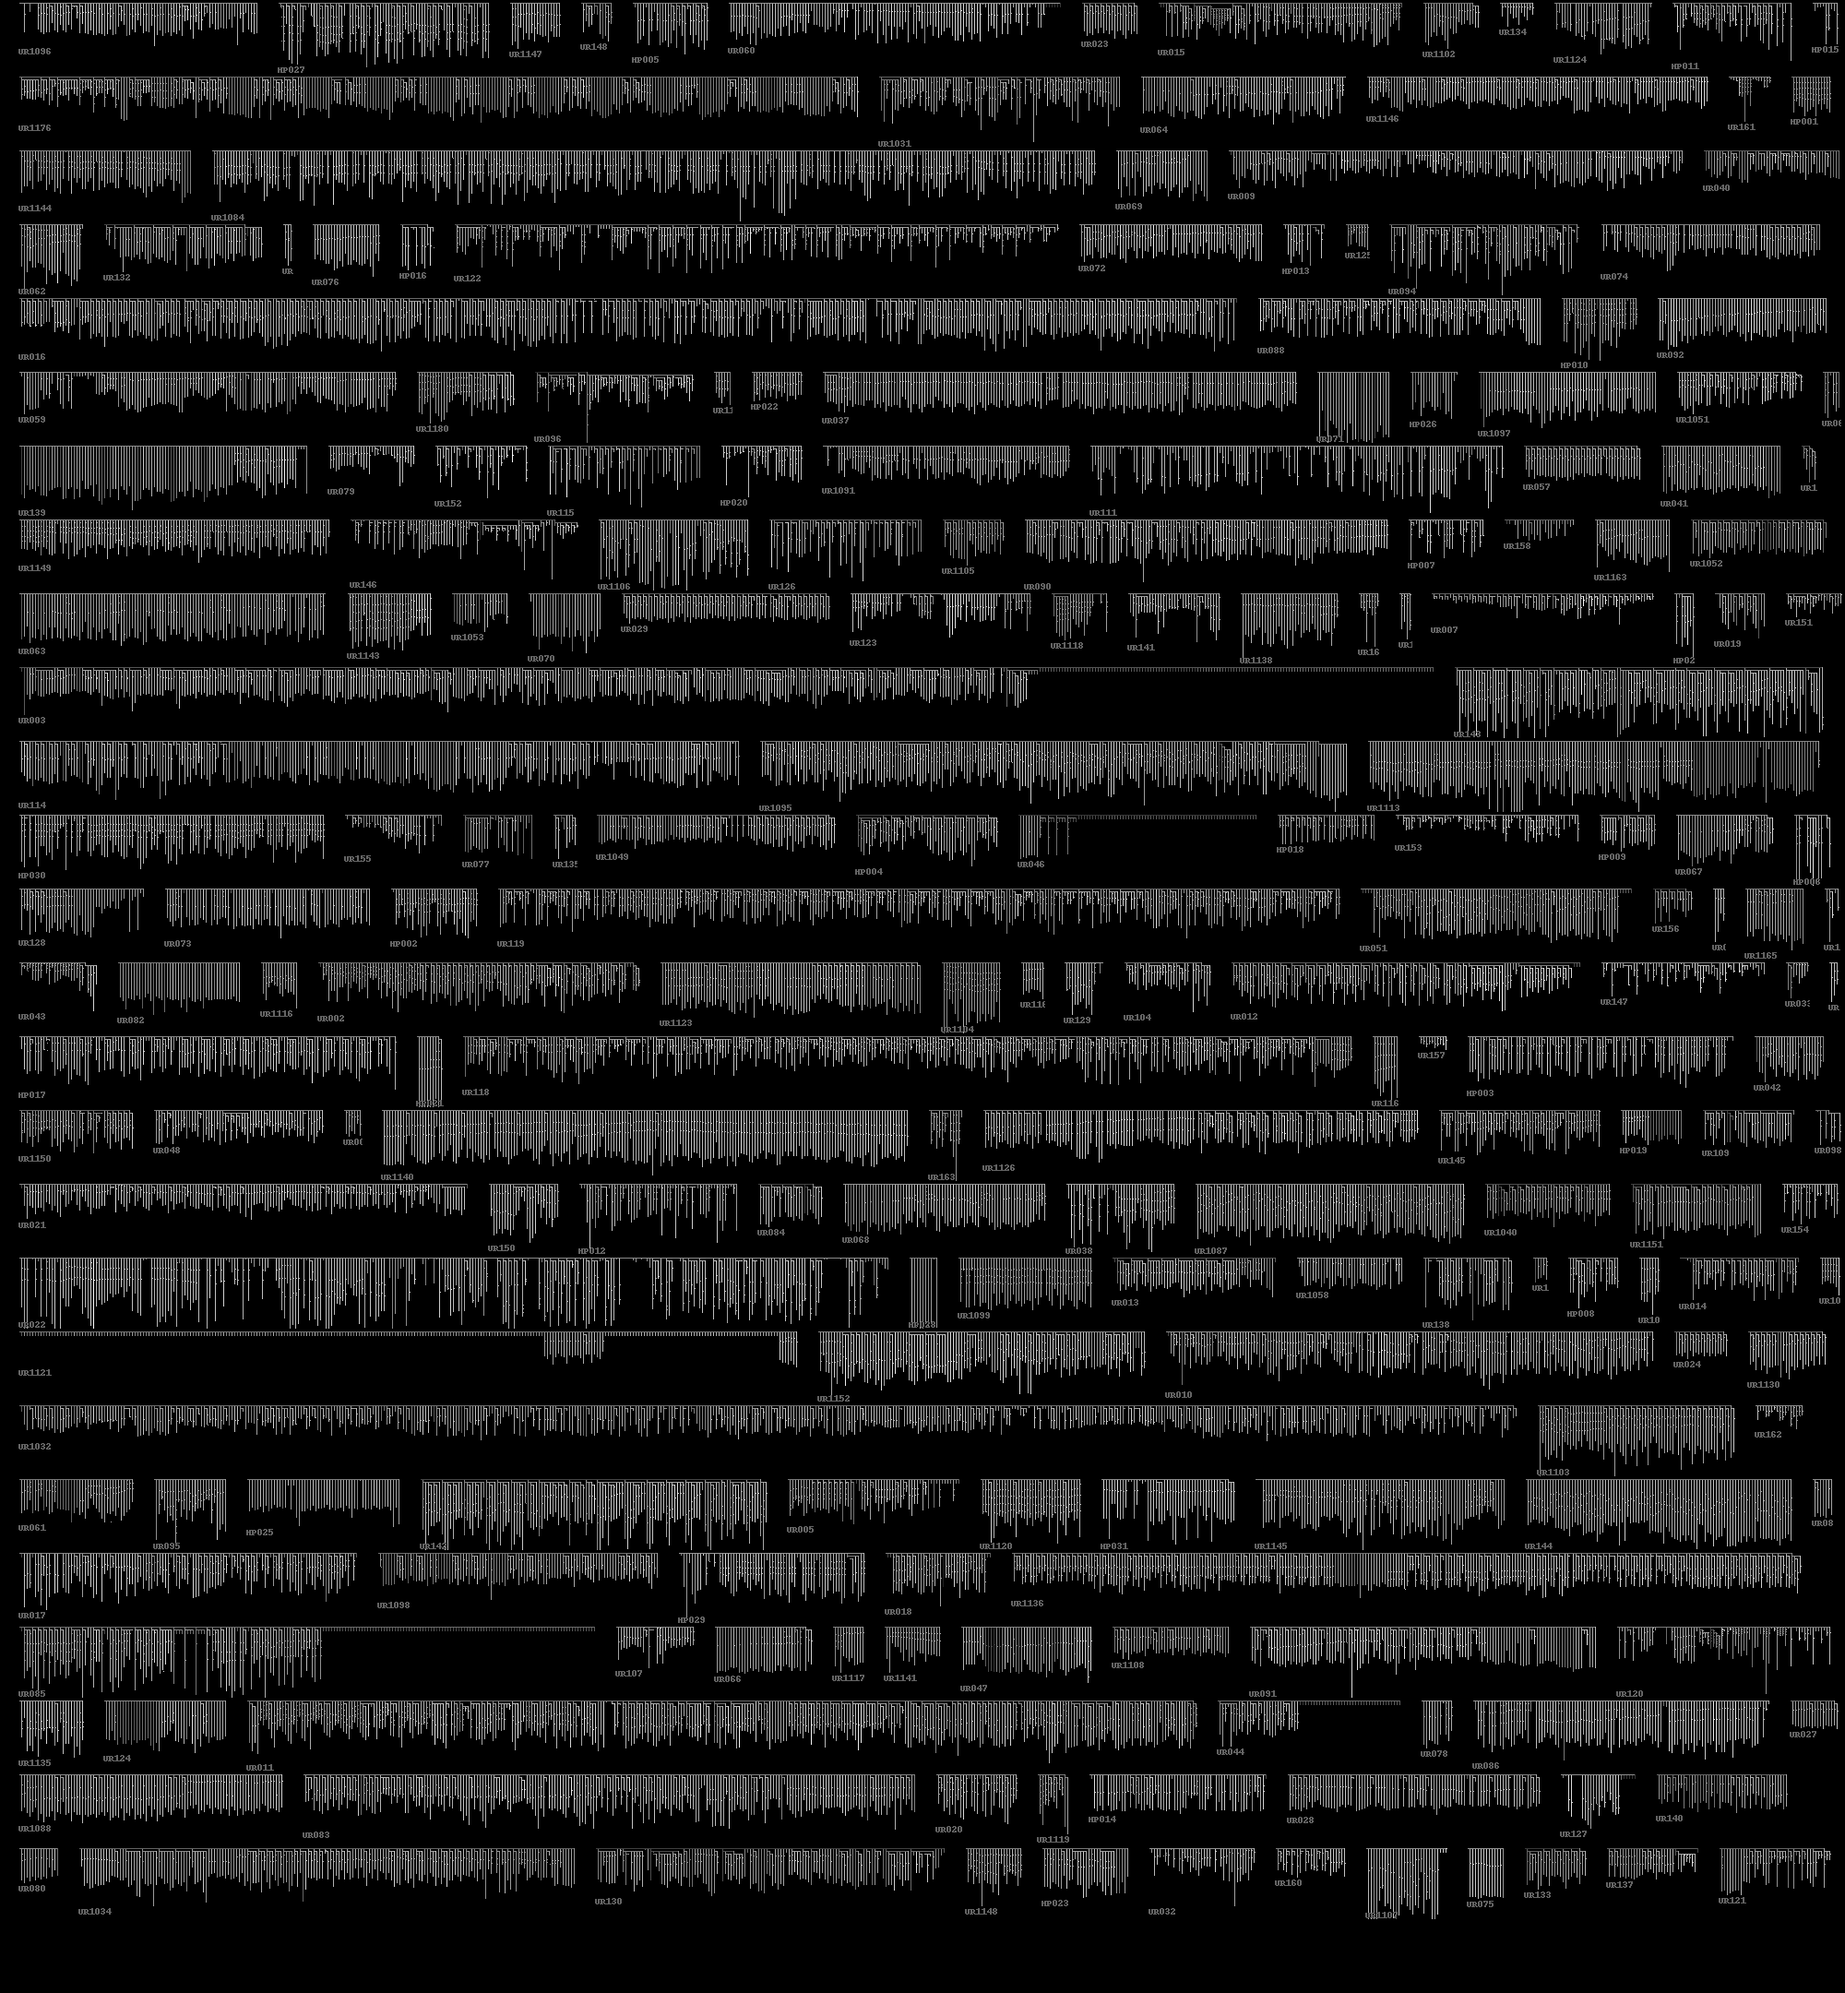
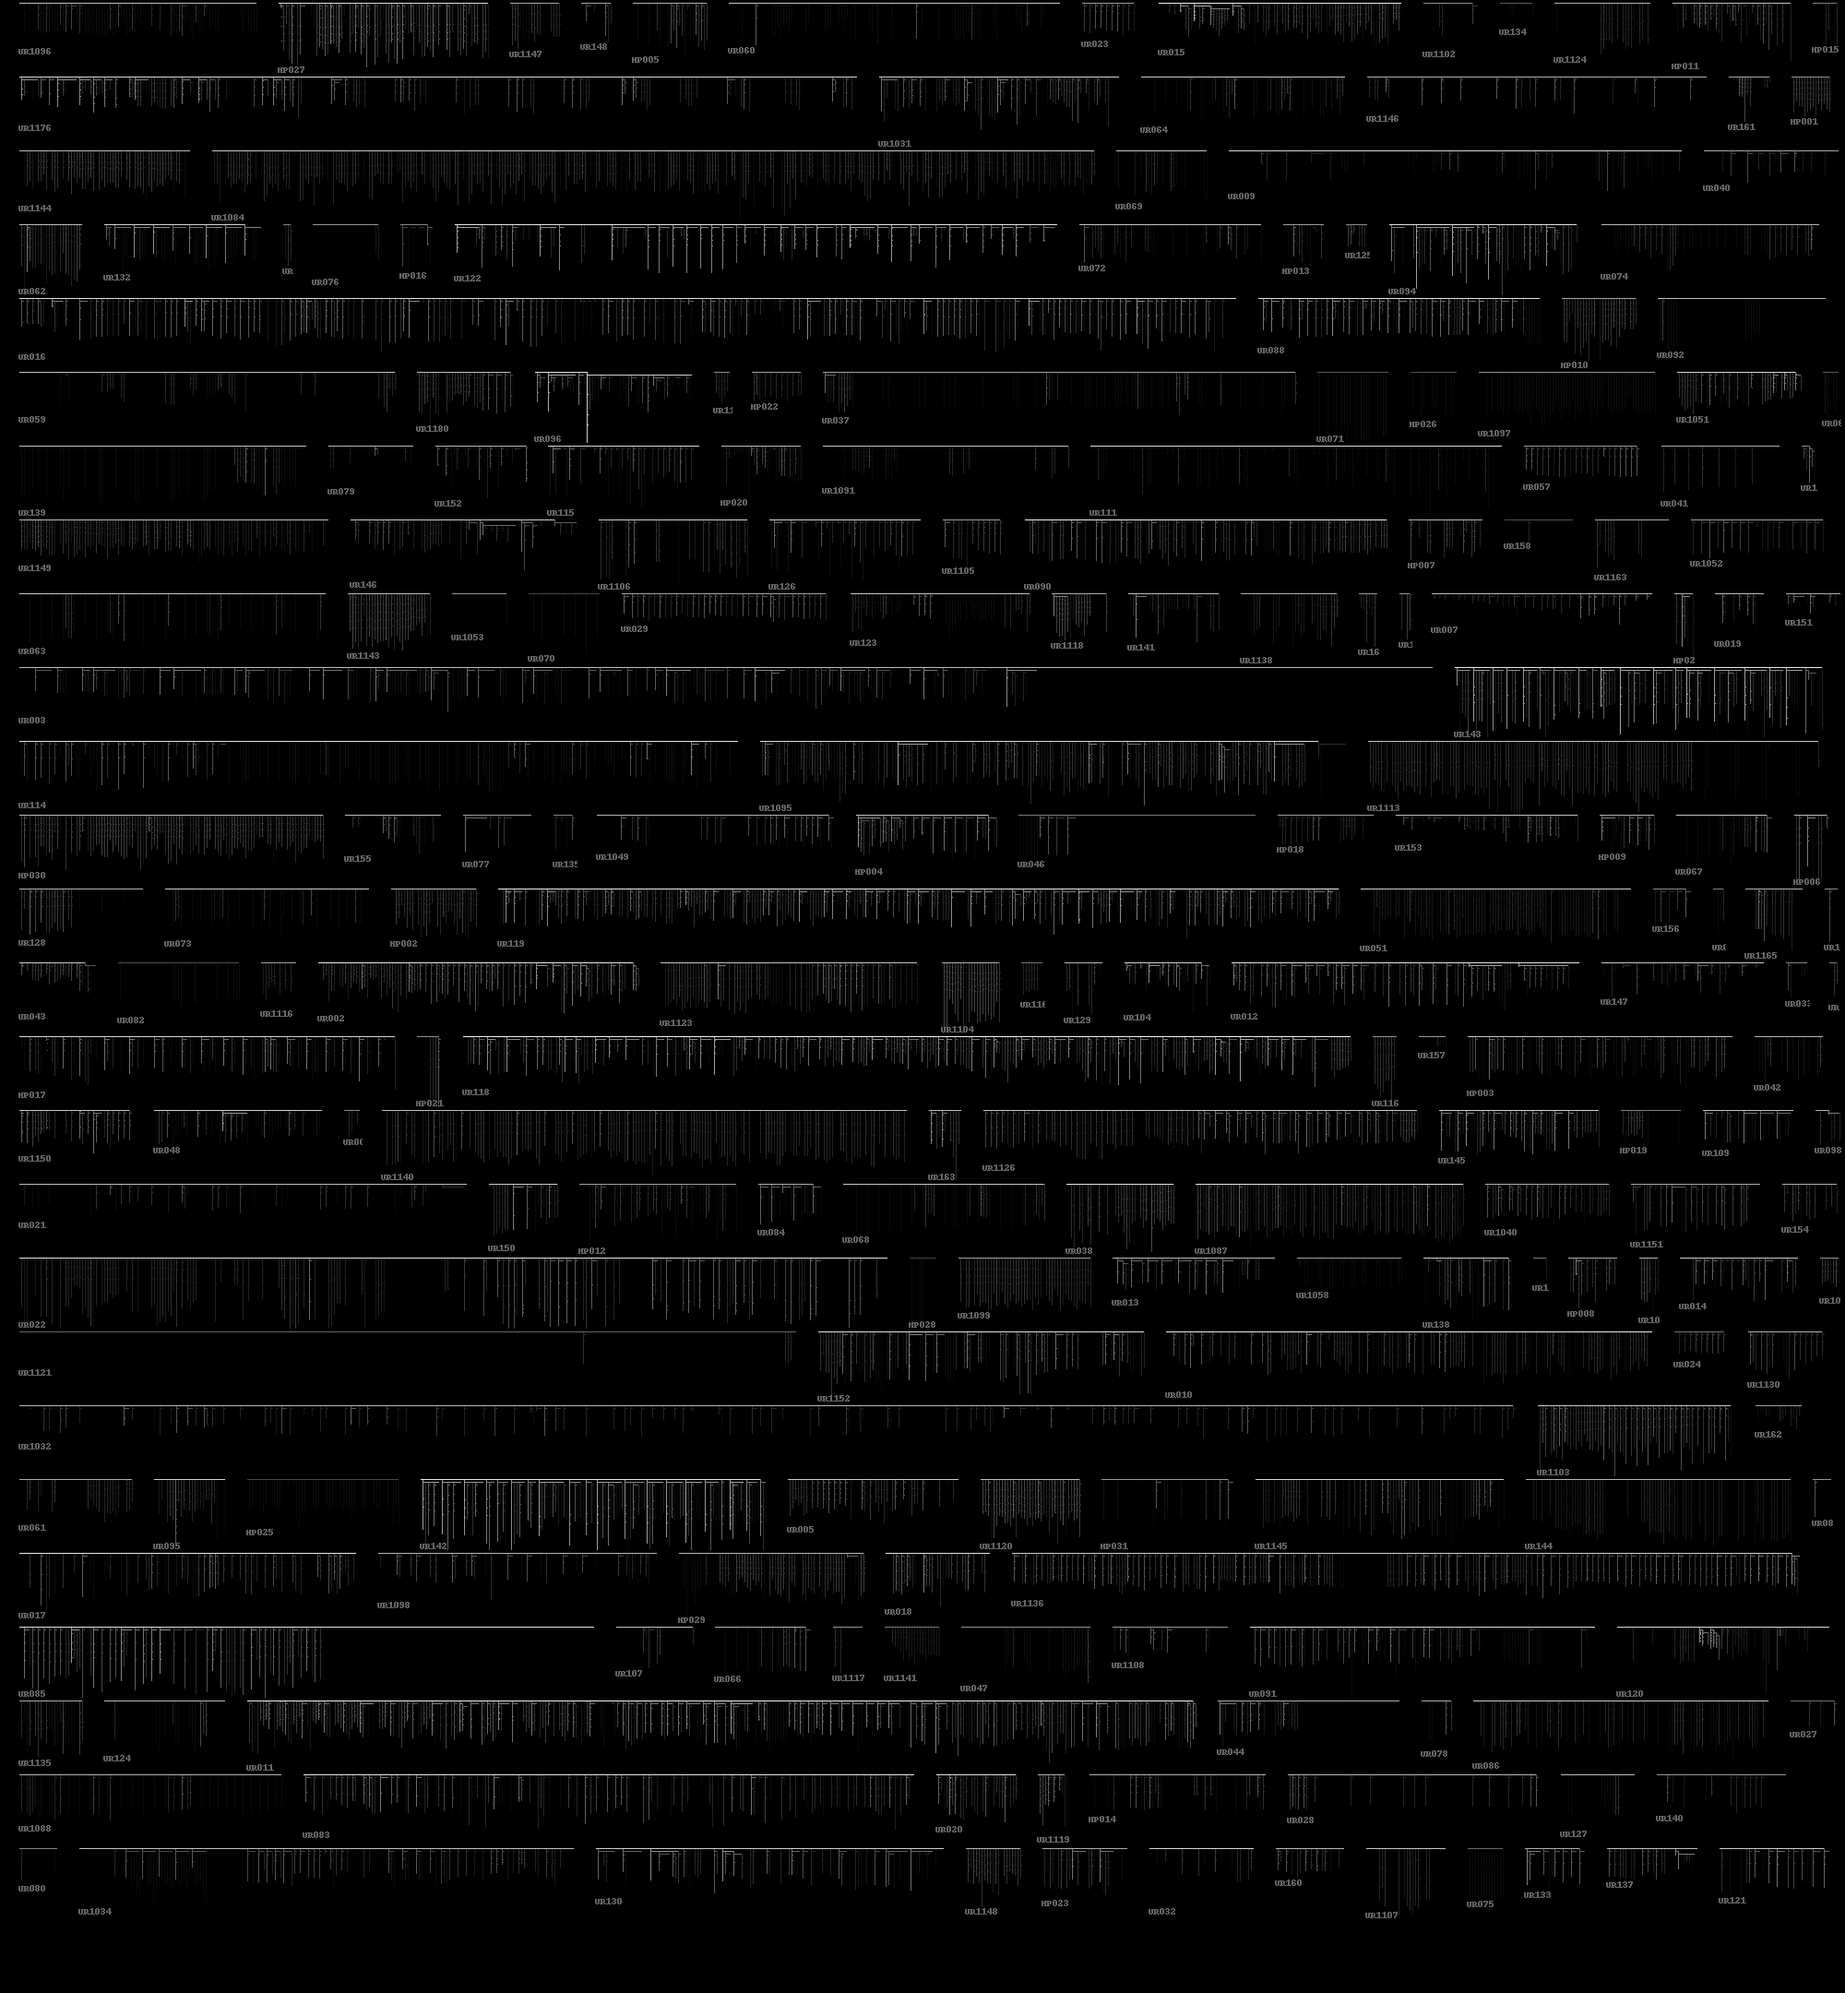
entropy fixes

diff --git a/quipupixel.py b/quipupixel.py
@@ -45,7 +45,7 @@ def rgb(triplet):
     return _HEXDEC[triplet[0:2]], _HEXDEC[triplet[2:4]], _HEXDEC[triplet[4:6]]
 
 
-
+## pendant tree class
 class pendant:
     def __init__(self,pid,ply,attach,knots,length,colours,value):
         self.pid = pid
@@ -61,7 +61,7 @@ class pendant:
             # convert to triples
             self.colours.append(rgb(c[2:-1]))
         self.value = value
-        self.entropy = 0
+        self.entropy = -1
 
     def add(self,child):
         self.children.append(child)
@@ -75,7 +75,25 @@ class pendant:
             return False
 
     def calc_entropy(self):
-        self.entropy = entropy.calc(self.pprint(0))
+        collect={
+            "ply":[],
+            "attach":[],
+            "length":[],
+            "colours":[],
+            "knot_value":[],
+            "knot_type":[],
+            "knot_position":[],
+            "knot_spin":[]
+        }
+
+        self.as_raw(collect)
+
+        self.entropy=0
+        for i in collect.values():
+            self.entropy += entropy.calc(i)
+
+        print(self.entropy)
+
         global _min_entropy
         global _max_entropy
 
@@ -87,14 +105,28 @@ class pendant:
 
     def safe_plot(self,pixels,x,y,c):
         if x>0 and x<pixels.shape[1] and y>0 and y<pixels.shape[0]:
-            if self.entropy!=0:
+            if self.entropy!=-1:
                 v=(self.entropy-_min_entropy)/(_max_entropy-_min_entropy)
                 v*=255
                 pixels[y,x]=(v,v,v)
             else:
                 pixels[y,x]=c
 
-    def pprint(self,depth):
+    # slice the data for entropy calc
+    def as_raw(self, collect):
+        collect["ply"]+=[self.ply]
+        collect["attach"]+=[self.attach]
+        collect["length"]+=[self.length]
+        collect["colours"]+=self.colours
+        collect["knot_value"]+=map(lambda k: k.value, self.knots)
+        collect["knot_type"]+=map(lambda k: k.type, self.knots)
+        collect["knot_position"]+=map(lambda k: k.position, self.knots)
+        collect["knot_spin"]+=map(lambda k: k.spin, self.knots)
+        for c in self.children:
+            c.as_raw(collect)
+
+    # produce a json string of this pendant
+    def as_json(self,depth):
         out=""
         header=""
         pheader=""
@@ -124,7 +156,7 @@ class pendant:
         else:
             out+=header+"\"children\": [\n"
             for i,p in enumerate(self.children):
-                out+=p.pprint(depth+2)
+                out+=p.as_json(depth+2)
                 if i==len(self.children)-1: out+="\n"
                 else: out+=",\n"
 
@@ -139,7 +171,7 @@ class pendant:
         return count
 
     def longest_pendant(self,depth):
-        length = self.length+depth*3
+        length = self.length+depth*3 # account for heirarchical position
         for p in self.children:
             l = p.longest_pendant(depth+1)
             if l>length: length=l
@@ -171,14 +203,16 @@ class pendant:
             tx,x=p.render(pixels,tx,x,y+3)
         return (sx,x)
 
+########################################################
 
+# just store the width and height for box fitting
 def prerender(primary,filename,store):
     h = int(primary.longest_pendant(0))+10
     w = primary.num_pendants()*3
     h = min(h,max_height)
     store[filename] = [0,0,w,h]
 
-
+# render a quipu, save the image and return it
 def render(primary,filename):
     h = int(primary.longest_pendant(0))+10;
     h = min(h,max_height)
@@ -195,6 +229,7 @@ def render(primary,filename):
     qname = os.path.basename(filename)[:-4]
     d_usr = d_usr.text((0,h-10),qname,(100,100,100))
 
+    print("saving: pixel/"+qname+".png")
     image.save("pixel/"+qname+".png")
     return image
 
@@ -234,6 +269,9 @@ def parse_to_pendant_tree(quipu):
 
     return primary
 
+# box fitting algo for the big image - store in rows, and
+# look for rows with enough space in, make new rows where
+# required
 def find_row(rows,w,maxw):
     for i,r in enumerate(rows):
         if (r+w+20)<maxw:
@@ -243,22 +281,16 @@ def find_row(rows,w,maxw):
     return len(rows)-1
 
 def fit(store):
-    # find widest
-    widest = 0
-    for r in store.values():
-        if r[2]>widest:
-            widest = r[2]
-    widest=2000
-    print widest
+    widest=2000 # max width of a row
     rows = [0]
     for r in store.values():
         row = find_row(rows,r[2],widest)
-        r[0]=rows[row]-r[2]
+        r[0]=rows[row]-r[2] # store the position
         r[1]=row*max_height
 
     return (widest,len(rows)*max_height)
 
-# create the dotfile
+# create the box fit coordinates using width/heights
 def prerun(filename,store):
     # open the spreadsheet
     try:
@@ -272,7 +304,7 @@ def prerun(filename,store):
     prerender(primary,filename,store)
     return store
 
-
+# actually create the image
 def run(filename):
     # open the spreadsheet
     try:
@@ -286,11 +318,38 @@ def run(filename):
     #reset_entropy()
     #primary.calc_entropy()
     #f = open(filename+".json","w")
-    #f.write(primary.pprint(0))
+    #f.write(primary.as_json(0))
     #f.close()
 
     return render(primary,filename)
 
+# calculate separate entropy values for each type of data
+def global_entropy_sliced(filenames):
+    collect={
+        "ply":[],
+        "attach":[],
+        "length":[],
+        "colours":[],
+        "knot_value":[],
+        "knot_type":[],
+        "knot_position":[],
+        "knot_spin":[]
+    }
+
+    for filename in filenames:
+        # open the spreadsheet
+        try:
+            workbook = xlrd.open_workbook(filename)
+            quipu = workbook.sheet_by_name('Pendant Detail')
+            primary = parse_to_pendant_tree(quipu)
+            primary.as_raw(collect)
+        except Exception:
+            pass
+
+    for key,value in collect.items():
+        print(key+" "+str(entropy.calc(value)))
+
+# run over all quipus and paste them in the big image
 def batch_run(filenames):
     store = {}
     for filename in filenames:
@@ -311,5 +370,7 @@ def batch_run(filenames):
 if __name__ == "__main__":
     if sys.argv[1]=="batch":
         batch_run(generate_quipu_list())
+    if sys.argv[1]=="sliced_entropy":
+        global_entropy_sliced(generate_quipu_list())
     else:
         run(sys.argv[1])

diff --git a/quipu2entropy.py b/quipu2entropy.py
@@ -26,7 +26,7 @@ from quipu2dot import *
 # maximise 'native' entropy
 # todo: try filtering
 def parse_to_raw(quipu):
-    out = ""
+    out = []
     # skip the gumpf at the top, start on the 6th line
     for curr_row in range(6,quipu.nrows):
         # get the stuff from the row
@@ -52,7 +52,7 @@ def parse_to_raw(quipu):
 
         pendant_values = clist+ply+attach+length+clist
         # describe the node details
-        out+=pid+pendant_values;
+        out=pid+pendant_values;
 
         for i,knot in enumerate(knots):
             out+=str(knot.value)

diff --git a/quipulib.py b/quipulib.py
@@ -128,7 +128,9 @@ colour_lookup = {
     'VR' : "#4F0014",
     'FB' : "#140F0B",
     'LC' : "#2C3337",
-    'VB' : "#022027"
+    'VB' : "#022027",
+    'LA' : "#BEADA1",
+    'GY' : "#887359"
 }
 
 unknown_colours = {}
